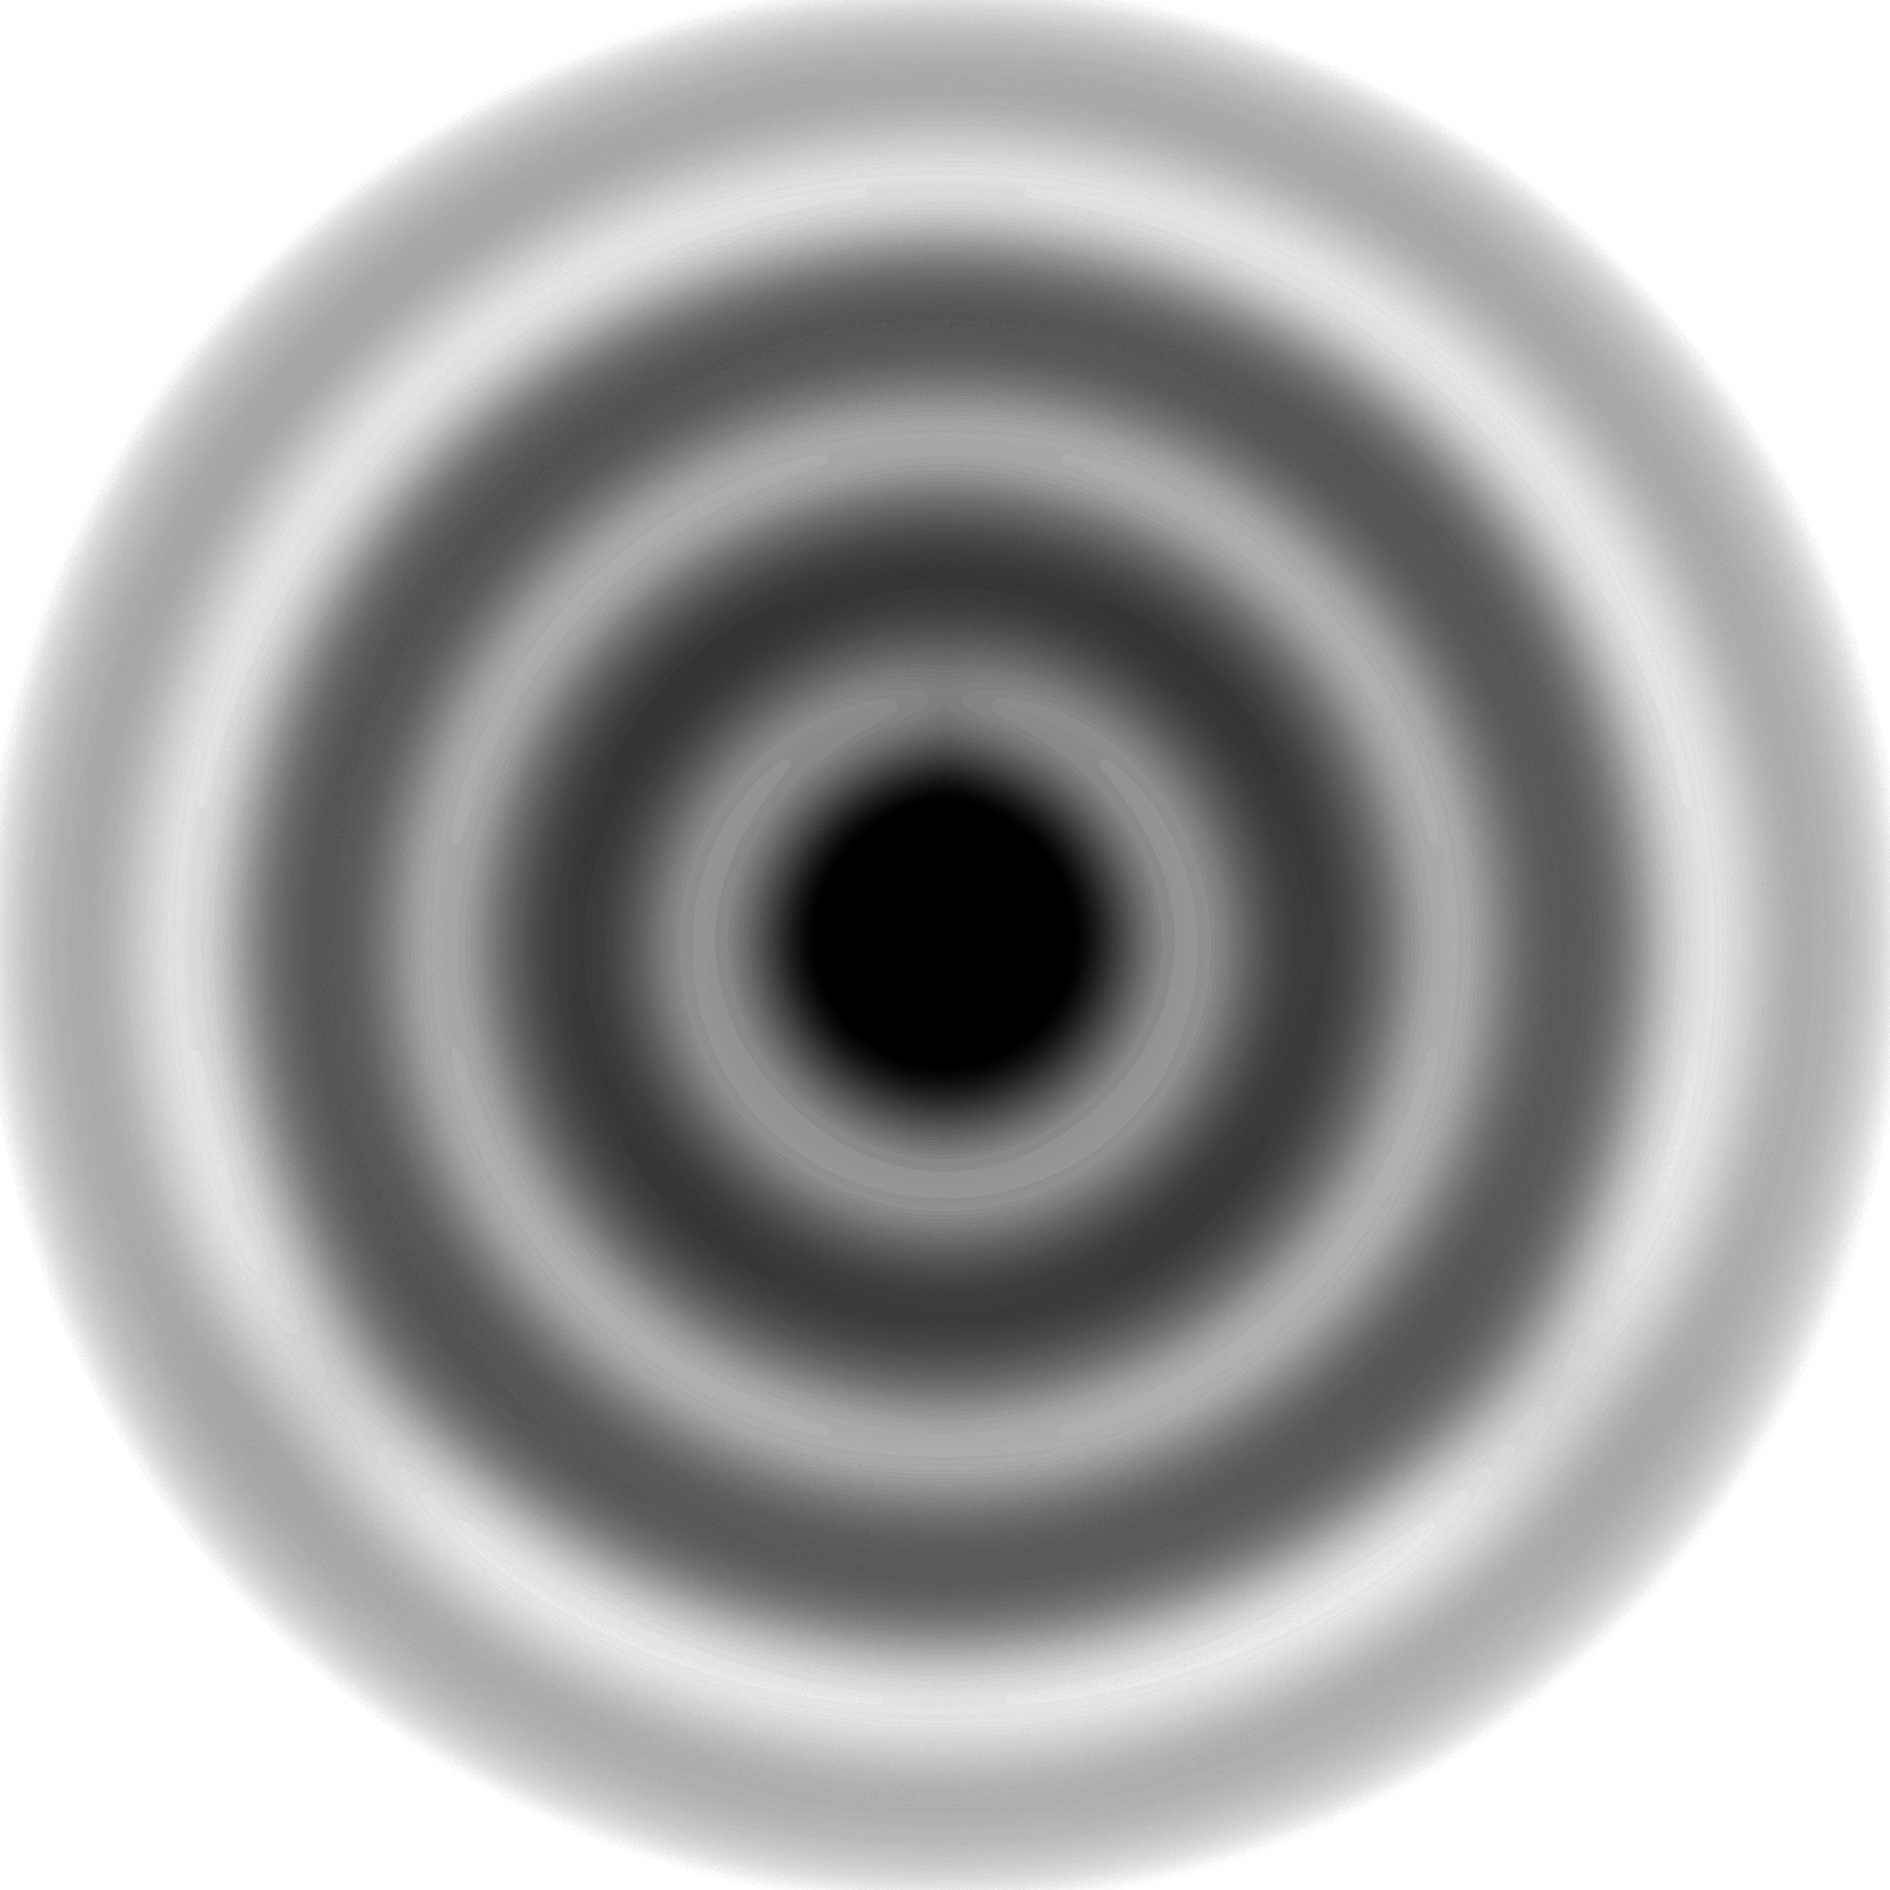
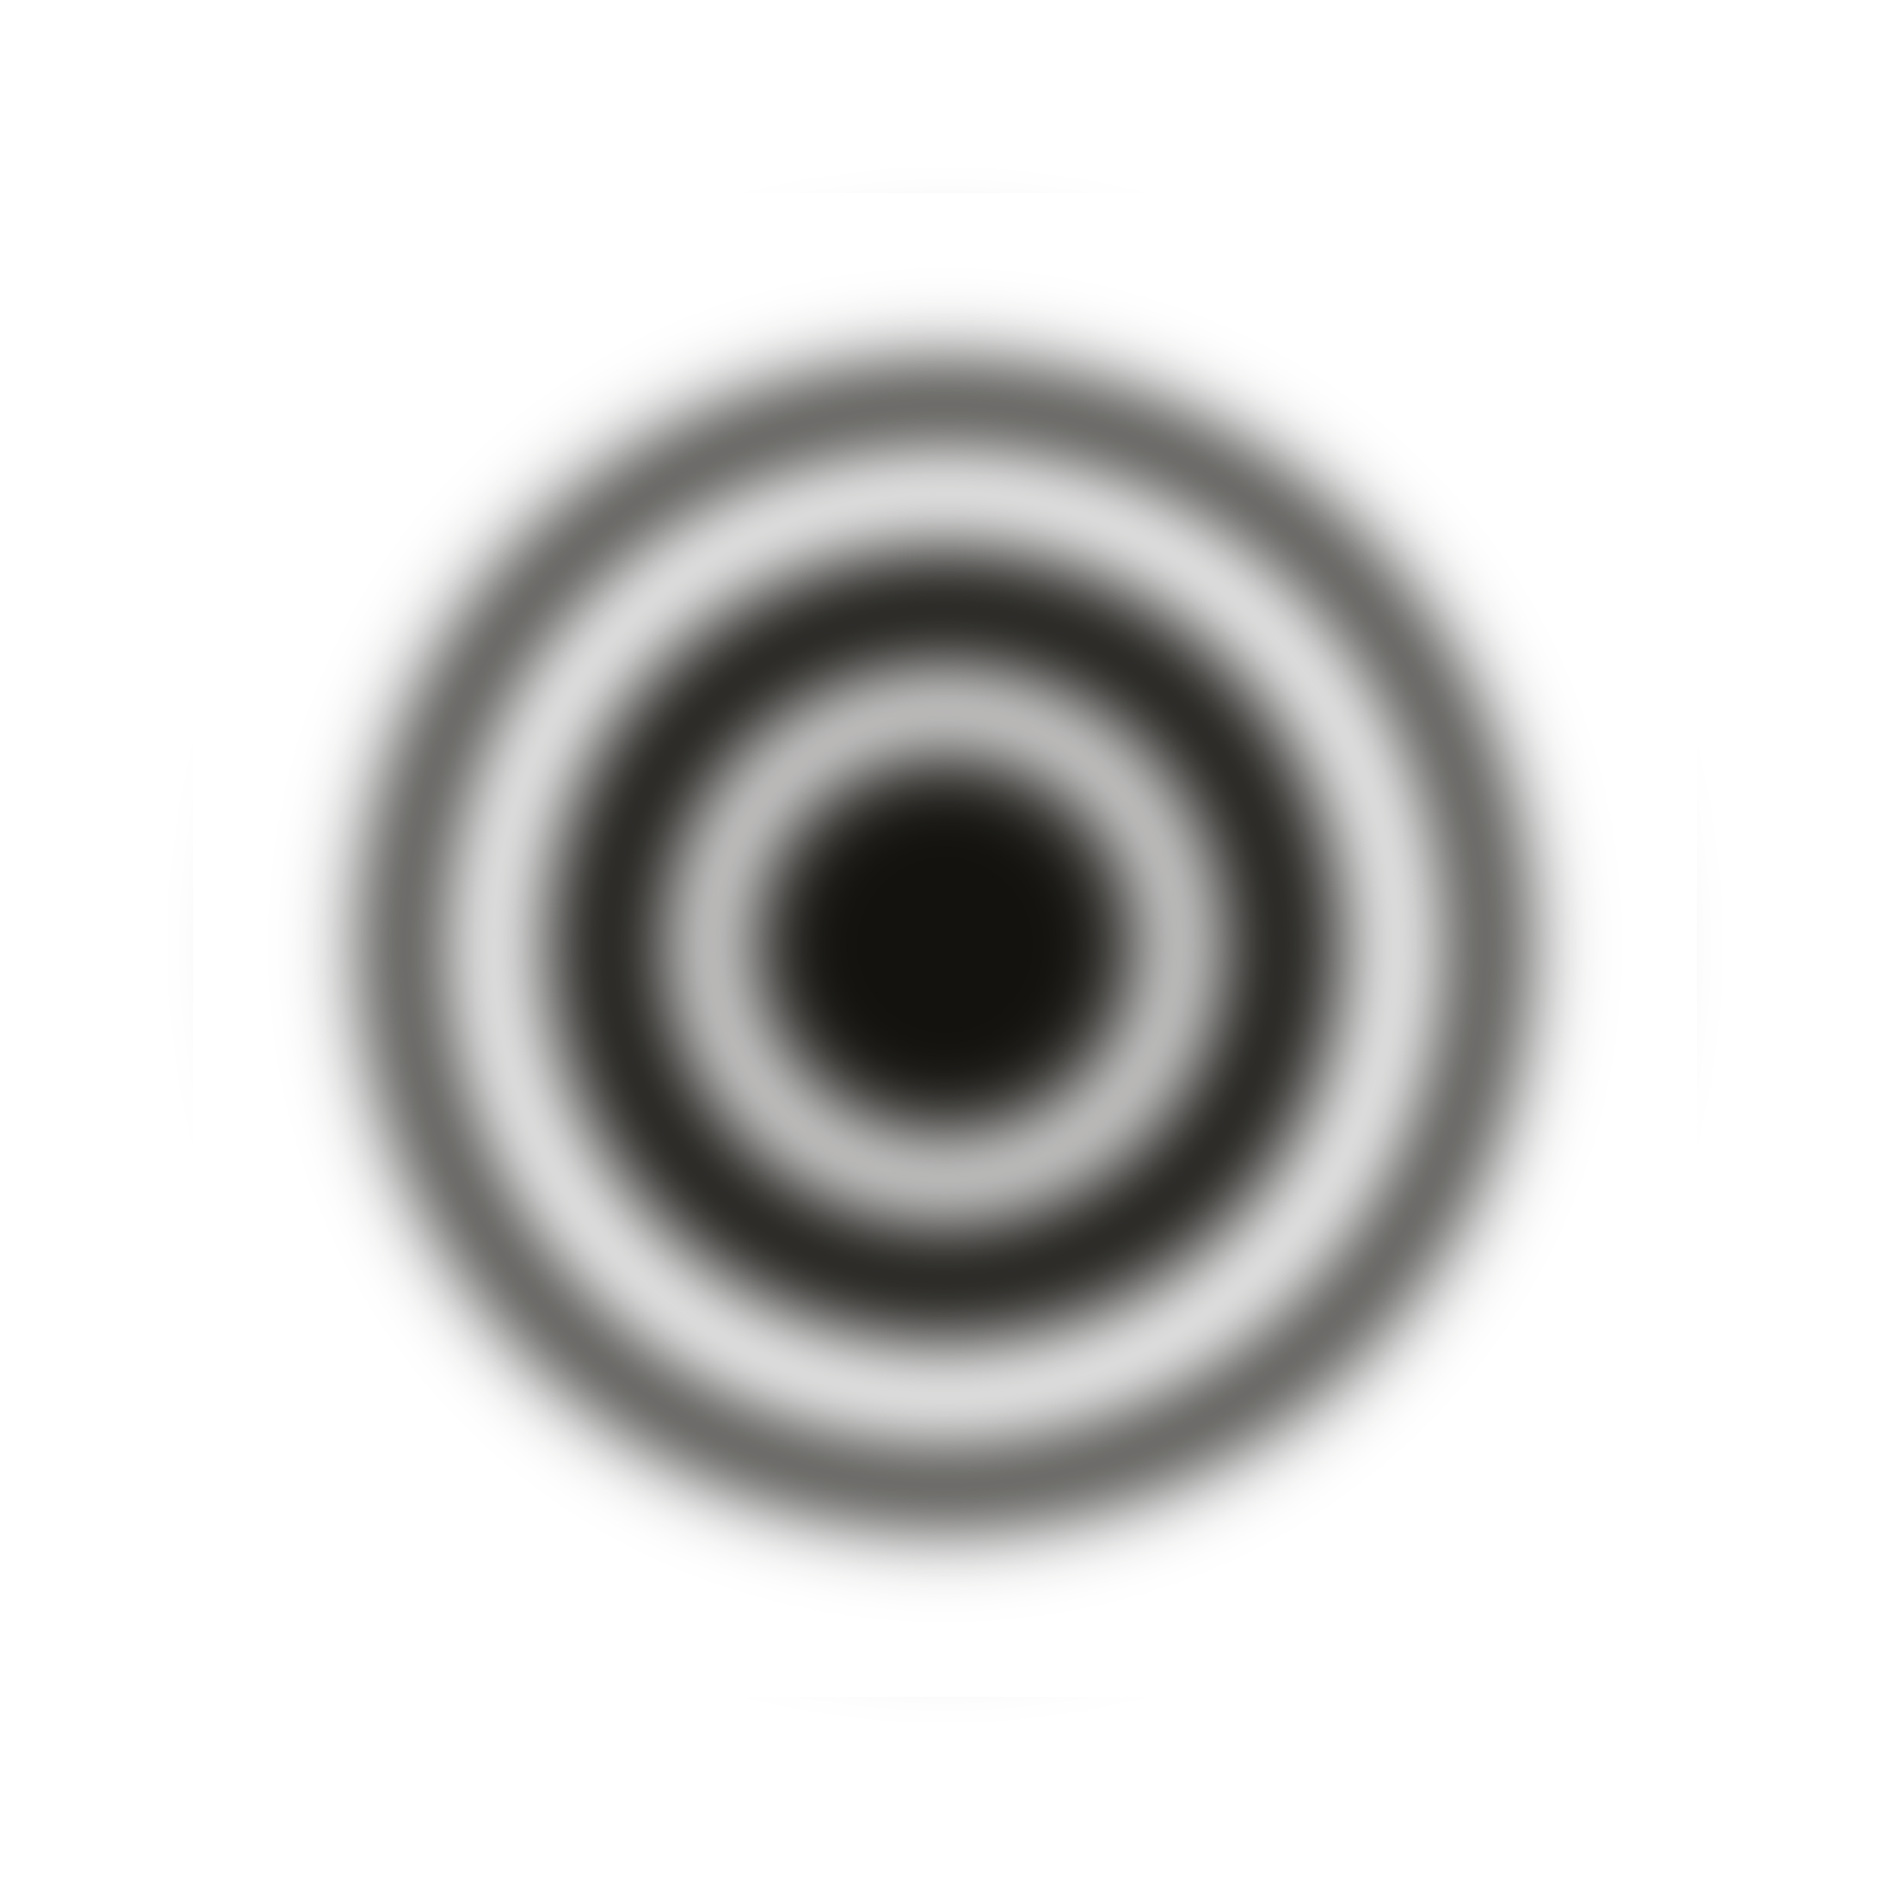
chore: more bgs & experiments

diff --git a/src/penrosed.js b/src/penrosed.js
@@ -9,13 +9,13 @@ async function penrosed(src) {
 	const maxPatternsCount = 350
 	const patternsOffset = 0
 	const width = 3000
-	const height = 3000
-	const details = 6
-	const noise = 0.99
-	const darken = 0.46
-	const lighten = 0.0
+	const height = 2000
+	const details = 8
+	const noise = 0.7
+	const darken = 0.2
+	const lighten = 0.2
 
-	const darkenAfter = 0.1
+	const darkenAfter = 0.0
 
 	const { ctx } = setupCanvas({ id: 'canvas', width, height })
 	const { ctx: underlayCtx } = setupCanvas({ id: 'underlay', width, height })
@@ -29,9 +29,8 @@ async function penrosed(src) {
 	const patterns = await createPatternsFromImagesWithMeta({ ctx, images: patternImages })
 	// const underlayPatterns = await createPatternsFromImagesWithMeta({ ctx: underlayCtx, images: patternImages })
 
-
 	const img = new Image()
-	img.src = 'src/bg/bg-circ3.jpg'
+	img.src = 'src/bg/bg7.jpg'
 
 	await img.decode()
 	underlayCtx.drawImage(img, 0, 0, width, height)
@@ -43,7 +42,7 @@ async function penrosed(src) {
 	underlayCtx.fillStyle = `rgba(255, 255, 255, ${lighten})`
 	underlayCtx.fillRect(0, 0, width, height)
 
-	drawPenrosedImage({ width, height, ctx, imageCtx: underlayCtx, patterns, details, noise, mode: 'underlayIsGaps' })
+	drawPenrosedImage({ width, height, ctx, imageCtx: underlayCtx, patterns, details, noise })
 
 	// ctx.fillStyle = `rgba(0, 0, 0, ${darkenAfter})`
 	// ctx.fillRect(-width / 2, -height / 2, width, height)

diff --git a/src/penrosed-particles.js b/src/penrosed-particles.js
@@ -8,14 +8,14 @@ import renderPreviews from './lib/renderPreviews.js'
 async function penrosed(src) {
 	const maxPatternsCount = 350
 	const patternsOffset = 0
-	const width = 4000
-	const height = 4000
+	const width = 2000
+	const height = 3500
 	const details = 8
-	const noise = 0.4
-	const darken = 0.3
+	const noise = 0.1
+	const darken = 0.0
 	const lighten = 0.0
 
-	const darkenAfter = 0.1
+	const darkenAfter = 0.6
 
 	const { ctx } = setupCanvas({ id: 'canvas', width, height })
 	const { ctx: underlayCtx } = setupCanvas({ id: 'underlay', width, height })
@@ -30,7 +30,7 @@ async function penrosed(src) {
 	// const underlayPatterns = await createPatternsFromImagesWithMeta({ ctx: underlayCtx, images: patternImages })
 
 	const img = new Image()
-	img.src = 'src/bg/bg-circ2.jpg'
+	img.src = 'src/bg/img.png'
 	await img.decode()
 	underlayCtx.drawImage(img, 0, 0, width, height)
 

diff --git a/src/lib/drawPenrosedImage.js b/src/lib/drawPenrosedImage.js
@@ -142,7 +142,7 @@ export function drawPenrosedImage({ width, height, patterns, ctx, imageCtx, deta
 
 	function drawTris() {
 		drawPass()
-		// drawPass(true)
+		drawPass(true)
 	}
 
 	function drawPass(antialias) {
@@ -195,8 +195,8 @@ export function drawPenrosedImage({ width, height, patterns, ctx, imageCtx, deta
 				// if (xcNorm < width / 2) isGap = 1
 
 				if (isGap) {
-					ctx.fillStyle = `rgb(255, 255, 255)`
-					// ctx.fillStyle = `rgb(0, 0, 0)`
+					// ctx.fillStyle = `rgb(255, 255, 255)`
+					ctx.fillStyle = `rgb(0, 0, 0)`
 				}
 				// 	ctx.fillStyle = matchingPattern
 				// }
